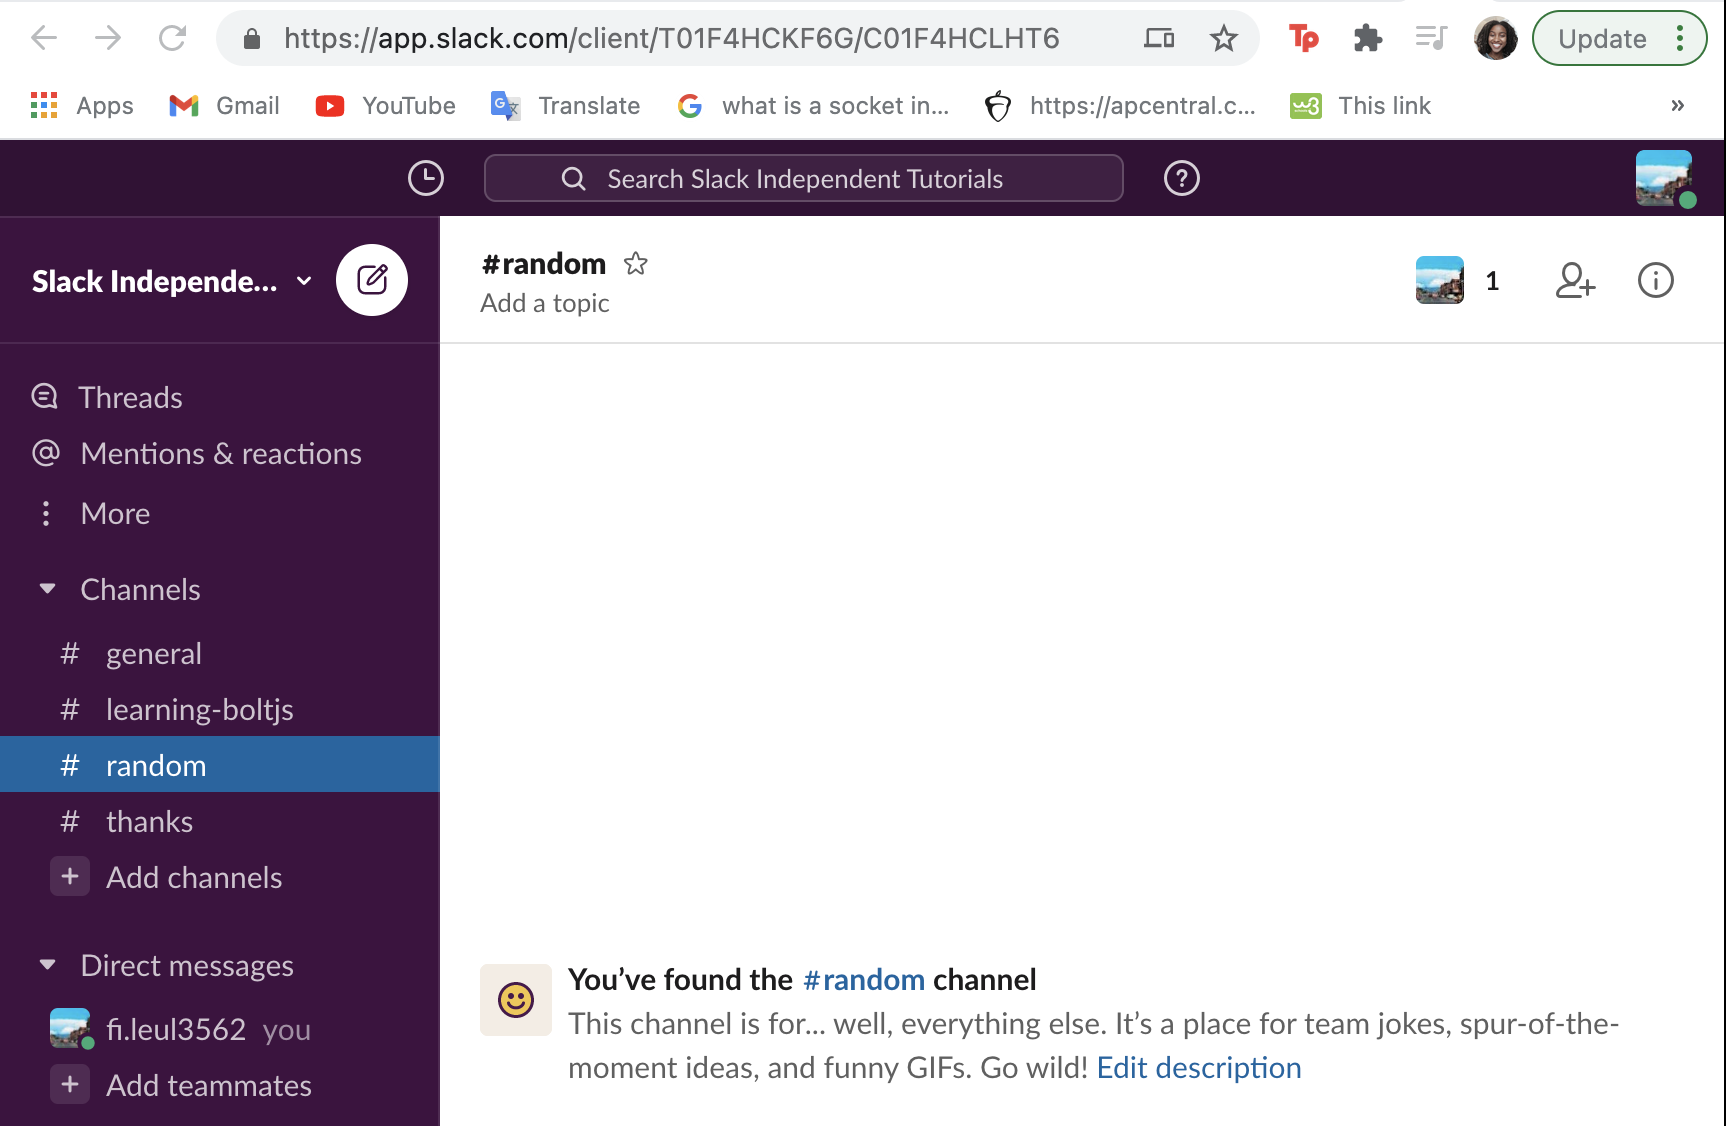
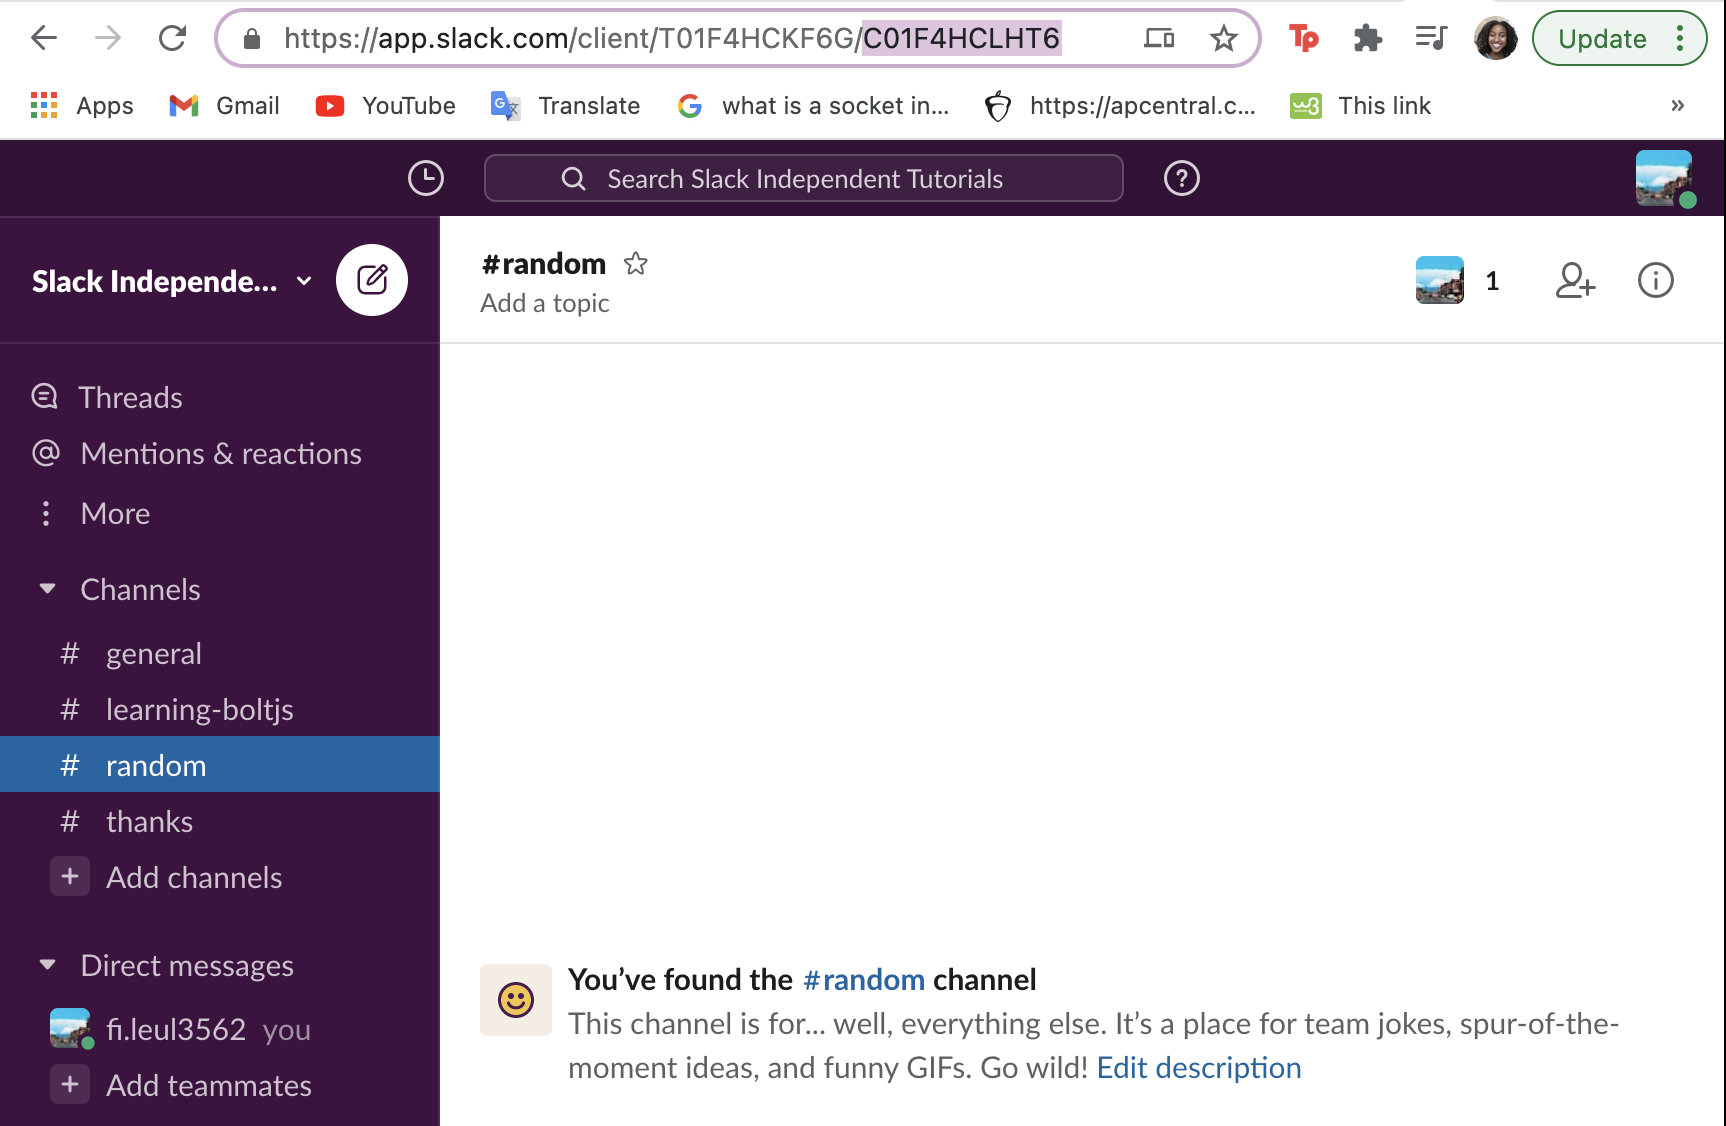
revised week 1 responses

Changed region(s): [[0.1228, 0.0, 0.737, 0.0622], [0.9212, 0.0311, 0.9519, 0.0622]]

diff --git a/week1/homework/responses/1.5-build-an-app.md b/week1/homework/responses/1.5-build-an-app.md
@@ -120,7 +120,7 @@ Go to the [Slack Events API](https://api.slack.com/events) and find the event fo
 
 Now it's time to create a new channel to remind new members to introduce themselves. To do this, [create a channel](https://slack.com/help/articles/201402297-Create-a-channel) in your workspace and open it up. In your browser URL, you can find the channel ID as the only code starting with a 'C'.
 
-![Finding a channel's id](./Gifs:Images/Screen Shot 2020-12-09 at 5.17.18 PM.png)
+![Finding a channel's id](./Gifs:Images/channel-id.png)
 
 Make sure to save this ID as a **global variable**. To actually message the user, look over [this documentation](https://api.slack.com/methods/chat.postMessage) on the Slack API. Call the method, then place it within the try-catch statement to put it into effect. 
 
